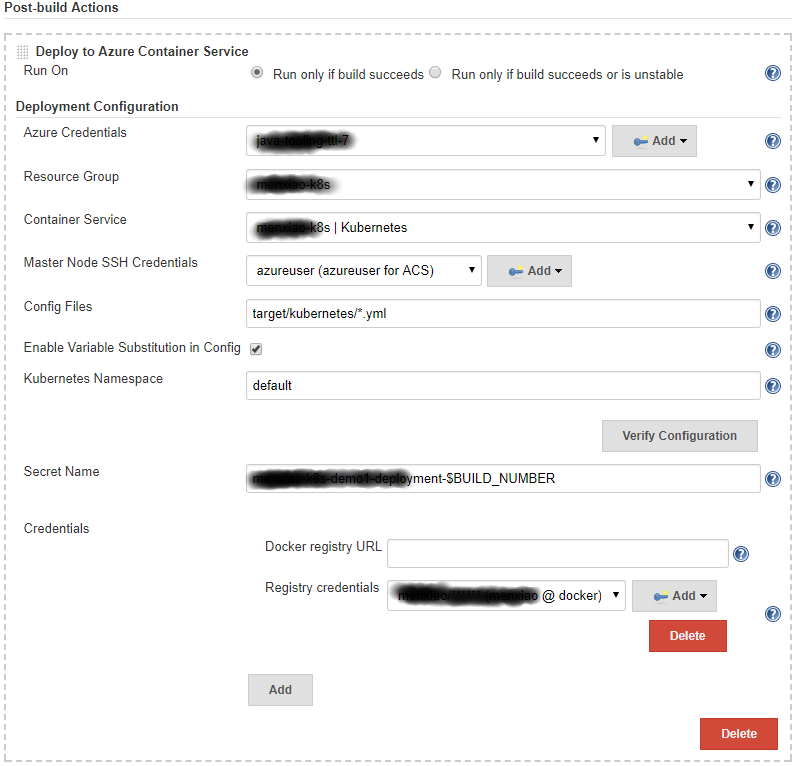
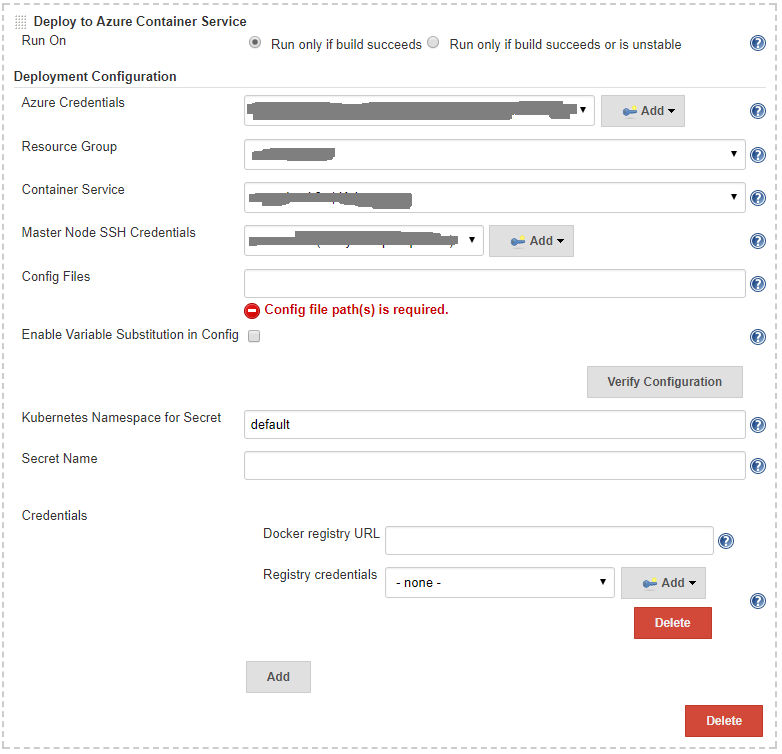
Update documentation

diff --git a/README.md b/README.md
@@ -65,9 +65,9 @@ It provides the following main functionality:
    corresponding value if they exists in the environment variables.
 1. If the configurations needs to pull images from private repository, click the "Docker Container Registry
    Credentials..." button and add them one by one.
-   * For Kubernetes, you can enter the secret name. The credentials you provided will be consolidated into
-      a Secret resource in your Kubernetes cluster with the name you provided. You can use that secret in your
-      Kubernetes configuration.
+   * For Kubernetes, you can enter the secret name and the namespace where the secret will be created based on the
+      credentials configured. The credentials you provided will be consolidated into a Secret resource in your 
+      Kubernetes cluster with the name you provided. You can use that secret in your Kubernetes configuration.
       
       You can use variables in the secret name (e.g., `$BUILD_NUMBER`), to generate a secret specific to a build.
       The name will be exposed as environment variable `KUBERNETES_SECRET_NAME` and you can use that in your
@@ -145,6 +145,31 @@ It provides the following main functionality:
    result of the configuration quality. You need to run a sample build to verify it works as some of the
    contents has to be loaded at build time.
 
+## Pipeline Support
 
+To use the plugin in pipeline, go to the **Pipeline Syntax** page when you configure the pipeline job, and choose
+**acsDeploy: Deploy to Azure Container Service** from the **Sample Step** dropdown. You can configure it and click 
+**Generate Pipeline Script** which will give you
 
- 
+```groovy
+acsDeploy(azureCredentialsId: '<azure-credential-id>',
+          resourceGroupName: '<resource-group-name>',
+          containerService: '<acs-name> | <acs-type>',
+          sshCredentialsId: '<ssh-credentials-id>',
+          configFilePaths: '<configuration-file-paths>',
+          enableConfigSubstitution: true,
+          
+          // Kubernetes
+          secretName: '<secret-name>',
+          secretNamespace: '<secret-namespace>',
+          
+          // Docker Swarm
+          swarmRemoveContainersFirst: true,
+          
+          // DC/OS Marathon
+          dcosDockerCredentialsPath: '<dcos-credentials-path>',
+          
+          containerRegistryCredentials: [
+              [credentialsId: '<credentials-id>', url: '<docker-registry-url>']
+          ])
+```
